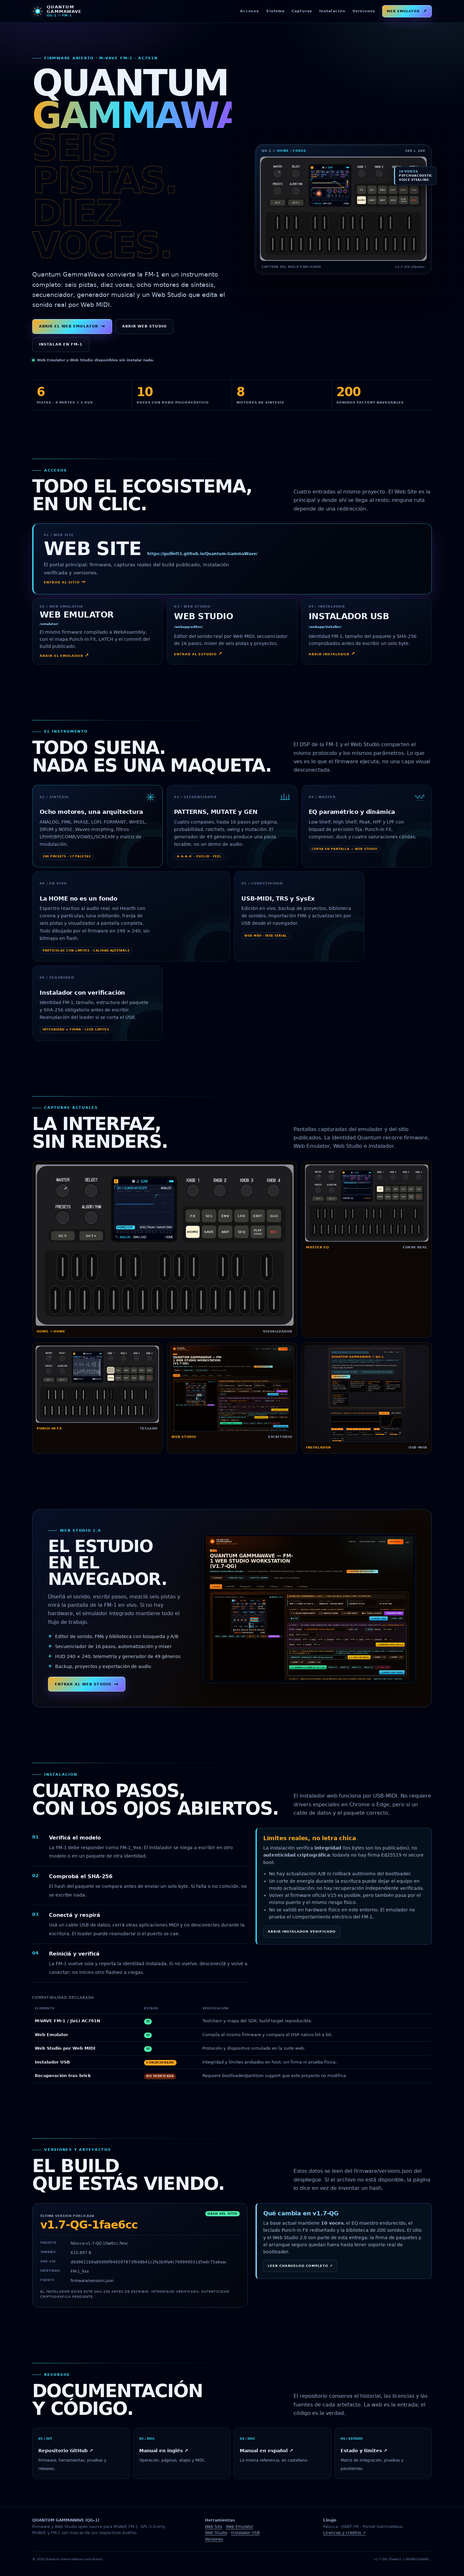
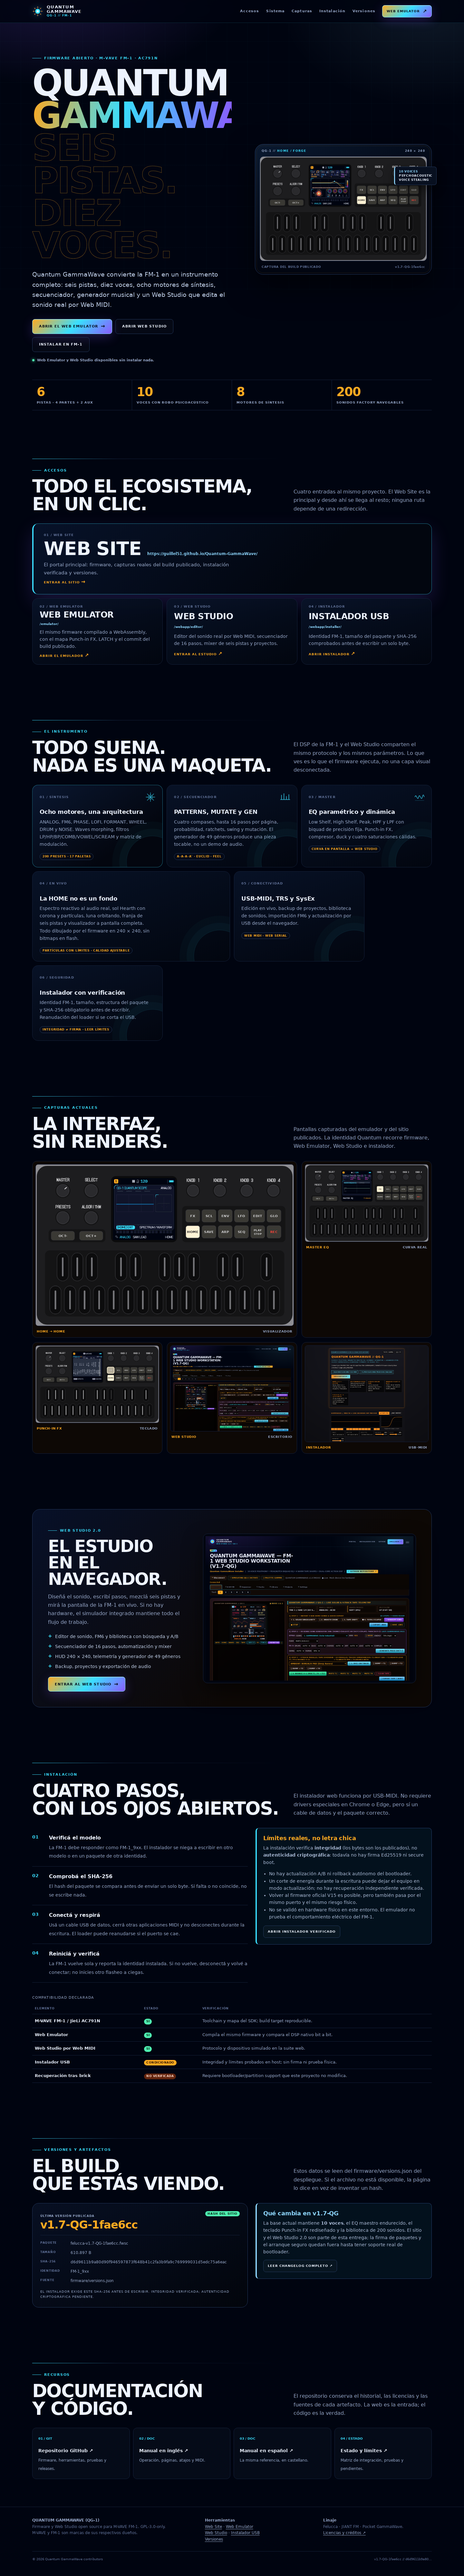
style(web): carry the Quantum palette through every Web Studio surface
The surface still painted its panels, gradients and glows with the Solar Heat
ambers, so the workstation read as the old identity next to the new portal. The
structural warm tokens become the Quantum cyan/violet and the gold stays only as
a deliberate accent.

🤖 Generated with Codebuff

Changed region(s): [[0.4375, 0.592, 0.875, 0.6543], [0.375, 0.4985, 0.625, 0.5608]]

diff --git a/web/editor.html b/web/editor.html
@@ -23,7 +23,7 @@
     --theme: #3adfff;
     --accent: #8fd8ff;
     --plasma: #8b5cff;
-    --glow: rgba(255, 148, 36, 0.22);
+    --glow: rgba(58, 223, 255, 0.22);
     --cyan-glow: rgba(96, 228, 255, 0.22);
     /* Web Studio console palette */ --gw-c0: #090b11; --gw-c1: #232738; --gw-c2: #ffffff; --gw-c3: #040608; --gw-c4: #ff385c; --gw-c5: #0b0d14; --gw-c6: #111522; --gw-c7: #040507; --gw-c8: #262b3d; --gw-c9: #060609; --gw-c10: #1f2433; --gw-c11: #07080d;
   }
@@ -65,14 +65,14 @@
   h1::before {
     content: "GW-1";
     font-size: 11px; padding: 2px 8px;
-    background: linear-gradient(135deg, var(--theme), #facc15);
+    background: linear-gradient(135deg, var(--theme), #ffaa21);
     color: #050608; font-weight: 800; letter-spacing: 0.12em;
     clip-path: polygon(0 0, calc(100% - 5px) 0, 100% 5px, 100% 100%, 5px 100%, 0 calc(100% - 5px));
   }
   h2 {
     font-size: 12px; font-weight: 800; letter-spacing: 0.09em; text-transform: uppercase;
     color: var(--theme); margin: 0 0 8px; padding: 4px 8px;
-    background: linear-gradient(90deg, rgba(255, 148, 36, 0.14), rgba(96, 228, 255, 0.04));
+    background: linear-gradient(90deg, rgba(58, 223, 255, 0.14), rgba(96, 228, 255, 0.04));
     border-left: 3px solid var(--theme);
     border-bottom: 1px solid var(--line);
   }
@@ -85,7 +85,7 @@
   .lang { float: right; font-size: 12px; color: var(--dim); text-decoration: underline; background: none; padding: 0; border: 0; }
   button {
     font: inherit; font-weight: 700; letter-spacing: 0.04em;
-    background: linear-gradient(180deg, var(--theme), #d97208);
+    background: linear-gradient(180deg, var(--theme), #8b5cff);
     color: #000410; border: 1px solid rgba(255, 255, 255, 0.15);
     padding: 4px 12px; cursor: pointer;
     clip-path: polygon(0 0, calc(100% - 5px) 0, 100% 5px, 100% 100%, 5px 100%, 0 calc(100% - 5px));
@@ -212,7 +212,7 @@
   }
   .tabs button:hover { color: var(--fg); border-color: var(--accent); }
   .tabs button[aria-selected="true"] {
-    background: linear-gradient(180deg, var(--theme), #d97208);
+    background: linear-gradient(180deg, var(--theme), #8b5cff);
     color: #050608; border-color: var(--theme); font-weight: 800;
   }
   .trackbar {
@@ -246,19 +246,19 @@
   .grid button .n { color: var(--dim); font-size: 9px; }
   .grid button .x { overflow: hidden; overflow-wrap: anywhere; flex: 1; font-weight: 600; }
   .grid button.on {
-    background: linear-gradient(180deg, rgba(255, 148, 36, 0.28), rgba(168, 85, 247, 0.16));
+    background: linear-gradient(180deg, rgba(58, 223, 255, 0.28), rgba(168, 85, 247, 0.16));
     color: var(--fg); border-color: var(--theme);
     border-top: 3px solid var(--accent);
-    box-shadow: 0 0 10px rgba(255, 148, 36, 0.2);
+    box-shadow: 0 0 10px rgba(58, 223, 255, 0.2);
   }
   .grid button.on .n { color: var(--accent); opacity: 1; }
   .grid button.acc {
     border-color: var(--accent); border-top: 3px solid var(--gw-c2);
-    background: linear-gradient(180deg, rgba(96, 228, 255, 0.32), rgba(255, 148, 36, 0.22));
+    background: linear-gradient(180deg, rgba(96, 228, 255, 0.32), rgba(58, 223, 255, 0.22));
   }
   .grid button.acc .x { font-weight: 800; color: var(--accent); }
   .grid button.tie { border-style: dashed; border-color: var(--accent); }
-  .grid button.beat { border-left: 2px solid rgba(255, 148, 36, 0.55); }
+  .grid button.beat { border-left: 2px solid rgba(58, 223, 255, 0.55); }
   #steps tr.hl td { outline: 1px solid var(--accent); background: rgba(96, 228, 255, 0.08); }
   /* mixer: 6-track GammaWave console strips */
   .mixer { display: grid; grid-template-columns: repeat(auto-fit, minmax(110px, 1fr)); gap: 10px; max-width: 820px; margin: 8px 0; }
@@ -347,19 +347,19 @@
     --dim: #93a3c4;
     --line: #16233d;
     --theme: #3adfff;
-    --accent: #ffaa21;
+    --accent: #8fd8ff;
     --plasma: #8b5cff;
-    --glow: rgba(255, 138, 30, .24);
+    --glow: rgba(58, 223, 255, .24);
     --cyan-glow: rgba(126, 231, 245, .20);
   }
   html { scrollbar-color: var(--line2, #56351e) var(--bg); }
   body {
     background-color: var(--bg);
     background-image:
-      radial-gradient(900px 520px at 10% -10%, rgba(255, 77, 0, .22), transparent 62%),
+      radial-gradient(900px 520px at 10% -10%, rgba(139, 92, 255, .22), transparent 62%),
       radial-gradient(760px 460px at 92% 0%, rgba(126, 231, 245, .10), transparent 62%),
-      linear-gradient(rgba(255, 138, 30, .018) 1px, transparent 1px),
-      linear-gradient(90deg, rgba(255, 138, 30, .018) 1px, transparent 1px);
+      linear-gradient(rgba(58, 223, 255, .018) 1px, transparent 1px),
+      linear-gradient(90deg, rgba(58, 223, 255, .018) 1px, transparent 1px);
     background-size: 100% 100%, 100% 100%, 48px 48px, 48px 48px;
     background-attachment: fixed;
   }
@@ -371,7 +371,7 @@
   main { max-width: 1380px; padding: 0 24px 46px; }
   .gw-brandbar {
     display: flex; align-items: center; gap: 18px; flex-wrap: wrap;
-    padding: 18px 0 14px; border-bottom: 1px solid rgba(255, 138, 30, .16); margin-bottom: 18px;
+    padding: 18px 0 14px; border-bottom: 1px solid rgba(58, 223, 255, .16); margin-bottom: 18px;
   }
   .gw-brand {
     display: inline-flex; align-items: center; gap: 11px; color: var(--fg);
@@ -381,7 +381,7 @@
   .gw-brand .orb {
     width: 34px; height: 34px; border-radius: 50%;
     background: radial-gradient(circle at 50% 45%, #eaf9ff 0 9%, #ffaa21 10% 22%, #3adfff 23% 48%, #4c3bb0 49% 61%, transparent 62%);
-    box-shadow: 0 0 22px rgba(255, 77, 0, .45); flex: 0 0 auto;
+    box-shadow: 0 0 22px rgba(139, 92, 255, .45); flex: 0 0 auto;
   }
   .gw-brand b { display: block; font-size: 13px; line-height: 1.02; letter-spacing: .11em; }
   .gw-brand small { display: block; color: var(--theme); font-size: 8.5px; letter-spacing: .15em; font-weight: 800; margin-top: 2px; }
@@ -400,7 +400,7 @@
   h1::before {
     content: "QG-1"; font-size: 10px; padding: 3px 8px; color: #040b18;
     background: linear-gradient(135deg, #ffaa21, var(--theme) 55%, #8b5cff);
-    box-shadow: 0 0 18px rgba(255, 77, 0, .22);
+    box-shadow: 0 0 18px rgba(139, 92, 255, .22);
   }
   .lang { margin-top: 4px; }
   .top {
@@ -415,10 +415,10 @@
     color: var(--dim); padding: 8px 15px; clip-path: none; border-radius: 6px 6px 0 0;
     font-size: 10px; letter-spacing: .06em;
   }
-  .tabs button:hover { background: rgba(255, 138, 30, .07); color: var(--fg); border-color: var(--line); }
+  .tabs button:hover { background: rgba(58, 223, 255, .07); color: var(--fg); border-color: var(--line); }
   .tabs button[aria-selected="true"] {
-    background: linear-gradient(180deg, var(--theme), #d96b08); color: #180a02;
-    border-color: #7fe9ff; border-bottom: 0; box-shadow: 0 -8px 20px rgba(255, 77, 0, .14);
+    background: linear-gradient(180deg, var(--theme), #8b5cff); color: #04101e;
+    border-color: #7fe9ff; border-bottom: 0; box-shadow: 0 -8px 20px rgba(139, 92, 255, .14);
   }
   .trackbar { background: rgba(17, 11, 7, .9); border: 1px solid var(--line); border-top: 0; }
   .bar { gap: 7px 10px; }
@@ -428,7 +428,7 @@
     border: 1px solid var(--line); border-radius: 5px; clip-path: none;
     font-weight: 800; font-size: 11px; padding: 6px 12px; letter-spacing: .04em;
   }
-  button:hover:not(:disabled) { border-color: var(--theme); background: linear-gradient(180deg, #372012, #20130b); box-shadow: 0 0 14px rgba(255, 77, 0, .12); }
+  button:hover:not(:disabled) { border-color: var(--theme); background: linear-gradient(180deg, #372012, #20130b); box-shadow: 0 0 14px rgba(139, 92, 255, .12); }
   button.gw-btn-sec { background: rgba(126, 231, 245, .04); border-color: rgba(126, 231, 245, .32); color: var(--accent); }
   button.gw-btn-sec:hover:not(:disabled) { background: rgba(126, 231, 245, .10); border-color: var(--accent); }
   select, input[type=text], input[type=number], input[type=search] {
@@ -439,15 +439,15 @@
   .gw-deck {
     border: 1px solid #4b2e1a; border-top: 1px solid #5d3a20; border-radius: 16px;
     background:
-      radial-gradient(600px 260px at 12% 0%, rgba(255, 77, 0, .12), transparent 65%),
+      radial-gradient(600px 260px at 12% 0%, rgba(139, 92, 255, .12), transparent 65%),
       linear-gradient(135deg, #1b0f08 0%, #0e0805 72%);
     padding: 18px; margin: 18px 0; box-shadow: 0 26px 70px rgba(0, 0, 0, .5);
   }
   .gw-bezel {
     background: linear-gradient(145deg, #070403, #020101); border: 1px solid #4b2e1a; border-radius: 12px;
-    box-shadow: inset 0 0 30px rgba(0, 0, 0, .9), 0 0 0 1px rgba(255, 196, 92, .06), 0 0 28px rgba(255, 77, 0, .08);
+    box-shadow: inset 0 0 30px rgba(0, 0, 0, .9), 0 0 0 1px rgba(255, 170, 33, .06), 0 0 28px rgba(139, 92, 255, .08);
   }
-  #gw-lcd { border-color: #3c2515; box-shadow: 0 0 22px rgba(255, 138, 30, .12); }
+  #gw-lcd { border-color: #3c2515; box-shadow: 0 0 22px rgba(58, 223, 255, .12); }
   .gw-bezel-top { color: #9b8068; }
   .gw-bezel-top span.led { color: var(--accent); text-shadow: 0 0 8px rgba(126, 231, 245, .5); }
   .gw-console h2, .gw-macros-title { color: var(--gold, #ffaa21); }
@@ -466,8 +466,8 @@
   .browser { border-top-color: var(--accent); }
   .hint { background: rgba(126, 231, 245, .05); border: 1px solid rgba(126, 231, 245, .18); border-left: 2px solid var(--accent); border-radius: 5px; }
   .grid button { background: #0a0604; border-color: #2e1e13; border-top-color: #402718; border-radius: 4px; }
-  .grid button.on { background: linear-gradient(180deg, rgba(255, 138, 30, .22), rgba(255, 77, 0, .08)); border-color: var(--theme); border-top-color: var(--accent); }
-  .grid button.acc { background: linear-gradient(180deg, rgba(126, 231, 245, .16), rgba(255, 138, 30, .12)); }
+  .grid button.on { background: linear-gradient(180deg, rgba(58, 223, 255, .22), rgba(139, 92, 255, .08)); border-color: var(--theme); border-top-color: var(--accent); }
+  .grid button.acc { background: linear-gradient(180deg, rgba(126, 231, 245, .16), rgba(58, 223, 255, .12)); }
   .strip { background: linear-gradient(180deg, #140d08, #0b0704); border-color: var(--line); border-top-color: var(--theme); border-radius: 7px; }
   .strip.sel { border-color: var(--accent); box-shadow: 0 0 20px rgba(126, 231, 245, .10); }
   .list { background: #000410; border-color: var(--line); border-radius: 5px; }
@@ -699,7 +699,7 @@
           <label>HUMAN
             <select id="gw-gen-human"><option value="0">0%</option><option value="30" selected>30%</option><option value="60">60%</option><option value="90">90%</option></select>
           </label>
-          <button type="button" id="gw-gen-make" style="background:linear-gradient(180deg,#facc15,#ca8a04);color:#050608;margin-left:auto;font-weight:800" title="Hardware: Press [OCT+] on GEN screen to generate piece">⚡ GENERATE PIECE [OCT+]</button>
+          <button type="button" id="gw-gen-make" style="background:linear-gradient(180deg,#7fe9ff,#1b8fb0);color:#050608;margin-left:auto;font-weight:800" title="Hardware: Press [OCT+] on GEN screen to generate piece">⚡ GENERATE PIECE [OCT+]</button>
         </div>
       </div>
       <div class="gw-macros" style="border-color:var(--accent)">
@@ -778,7 +778,7 @@
               <option value="drum_wraith">GW PRESET: WRAITH BEAT CYBER KIT</option>
             </optgroup>
           </select>
-          <button type="button" id="gw-dice-trk" style="background:linear-gradient(180deg,#facc15,#ca8a04);color:#050608" title="Generate a new 64-step (4-bar) sequence with the selected GammaWave Preset and hear it live on top of T1..T4">🎲 1. DICE GW TRACK</button>
+          <button type="button" id="gw-dice-trk" style="background:linear-gradient(180deg,#7fe9ff,#1b8fb0);color:#050608" title="Generate a new 64-step (4-bar) sequence with the selected GammaWave Preset and hear it live on top of T1..T4">🎲 1. DICE GW TRACK</button>
           <button type="button" class="gw-tape-dump" data-lane="0" title="Record/Dump onto Tape Track 1 (plays simultaneously with T2, T3, T4)">📥 DUMP → T1</button>
           <button type="button" class="gw-tape-dump" data-lane="1" title="Record/Dump onto Tape Track 2 (plays simultaneously with T1, T3, T4)">📥 DUMP → T2</button>
           <button type="button" class="gw-tape-dump" data-lane="2" title="Record/Dump onto Tape Track 3 (plays simultaneously with T1, T2, T4)">📥 DUMP → T3</button>
